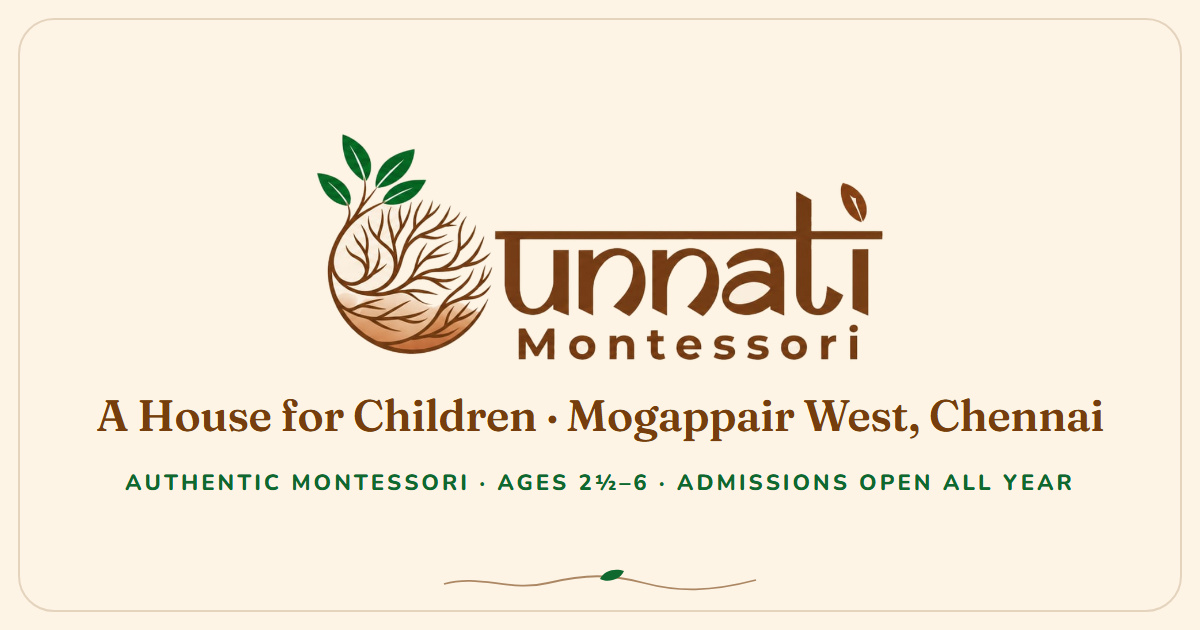
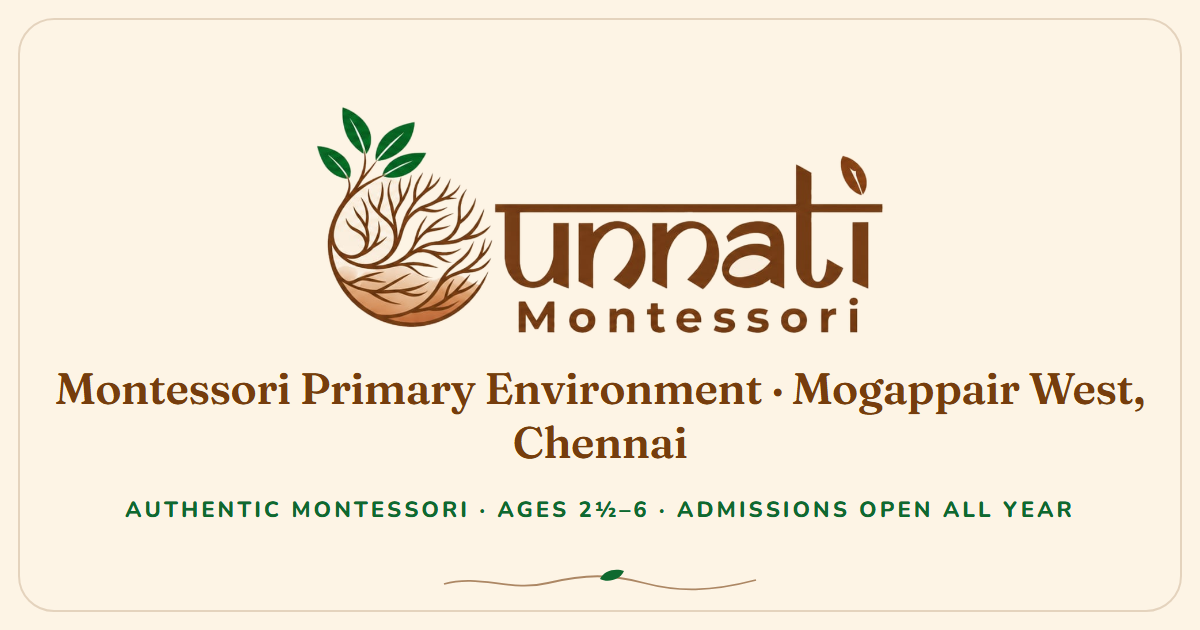
Round 2, phase 2: one number, Plot No. 5 address, firstPlaneTitle, no tagline

Changed region(s): [[0.0308, 0.181, 0.9558, 0.8444]]

diff --git a/src/config/site.ts b/src/config/site.ts
@@ -3,12 +3,12 @@
 
 export const site = {
   name: 'Unnati Montessori',
-  tagline: 'A House for Children',
   status: 'opening-shortly' as 'opening-shortly' | 'open',
   contactPerson: 'Manisha Aashish',
-  school: { display: '+91 75500 22403', tel: '+917550022403', wa: '917550022403' }, // admissions, day care, teacher training, hiring
-  consultancy: { display: '+91 90035 84303', tel: '+919003584303', wa: '919003584303' },
+  // The one number for everything: admissions, day care, teacher training, hiring and consultancy.
+  school: { display: '+91 75500 22403', tel: '+917550022403', wa: '917550022403' },
   address: {
+    plot: 'Plot No. 5',
     street: 'Chanakyan Cross Road, Annamalai Avenue',
     area: 'Mogappair West',
     city: 'Chennai',
@@ -16,7 +16,9 @@ export const site = {
     country: 'IN',
   },
   mapsUrl:
-    'https://www.google.com/maps/search/?api=1&query=Chanakyan+Cross+Road%2C+Annamalai+Avenue%2C+Mogappair+West%2C+Chennai',
+    'https://www.google.com/maps/search/?api=1&query=Plot+No.+5%2C+Chanakyan+Cross+Road%2C+Annamalai+Avenue%2C+Mogappair+West%2C+Chennai',
+  // Rename the first-plane section here; this is the only place the title is typed.
+  firstPlaneTitle: 'The First Plane of Development · Birth to 6',
   primary: { ages: '2½–6' },
   dayCare: {
     name: 'Extended Day Care',
@@ -37,7 +39,11 @@ export type Phone = typeof site.school;
 
 export const statusLabel = site.status === 'open' ? 'Now open' : 'Opening shortly';
 
-export const fullAddress = `${site.address.street}, ${site.address.area}, ${site.address.city}`;
+/** "Plot No. 5, Chanakyan Cross Road, Annamalai Avenue, Mogappair West, Chennai" */
+export function formatAddress(): string {
+  const a = site.address;
+  return `${a.plot}, ${a.street}, ${a.area}, ${a.city}`;
+}
 
 export const siteUrl = (import.meta.env.SITE_URL || 'https://unnati-montessori.netlify.app').replace(/\/$/, '');
 

diff --git a/src/content/faq.ts b/src/content/faq.ts
@@ -1,6 +1,6 @@
 // FAQ and consultancy copy (brief 6.9, 6.13, 6.14) plus the Day Care FAQ.
 // Answers are HTML strings so they can carry links; facts are interpolated from site.ts.
-import { site, fullAddress, telHref, wa, waText } from '../config/site';
+import { site, formatAddress, telHref, wa, waText } from '../config/site';
 
 export type QA = { q: string; a: string };
 
@@ -13,7 +13,7 @@ export const parentFaq: QA[] = [
   { q: 'Who will guide my child?', a: 'Our founder, Manisha Aashish, is an AMI-trained Montessori educator with over 10 years of experience, and we are building our team with AMI/IMTC Primary-trained educators.' },
   { q: 'How is Montessori different from a regular preschool?', a: 'Children choose purposeful work with hands-on materials, learn at their own pace and grow independent. <a href="/approach#compare">See the differences →</a>' },
   { q: 'What are the fees and timings?', a: `Call or WhatsApp us on ${schoolPhone} and we'll share the details for your child's programme.` },
-  { q: 'Where are you?', a: `${fullAddress} — near Casagrand Millenia. <a href="${site.mapsUrl}" target="_blank" rel="noopener">Get directions →</a>` },
+  { q: 'Where are you?', a: `${formatAddress()} — near Casagrand Millenia. <a href="${site.mapsUrl}" target="_blank" rel="noopener">Get directions →</a>` },
 ];
 
 export const dayCareFaq: QA[] = [
@@ -109,4 +109,4 @@ export const consultancyFaq: QA[] = [
   { q: 'Is Montessori consultancy only for new schools?', a: 'No. We also work with existing schools, educators, training institutes, and organisations and NGOs in education.' },
 ];
 
-export const consultancyWa = wa(site.consultancy, waText.consultancy);
+export const consultancyWa = wa(site.school, waText.consultancy);

diff --git a/src/scripts/route.ts b/src/scripts/route.ts
@@ -4,11 +4,9 @@ import { site, telHref, wa, waText } from '../config/site';
 
 export const path = () => location.pathname.replace(/\/$/, '') || '/';
 
-/** The consultancy page uses the consultancy number; every other page uses the school number. */
+/** One number everywhere; on /consultancy the WhatsApp message asks about consultancy. */
 export function contactFor(p = path()) {
-  const consult = p === '/consultancy';
-  const number = consult ? site.consultancy : site.school;
-  return { tel: telHref(number), wa: wa(number, consult ? waText.consultancy : waText.general) };
+  return { tel: telHref(site.school), wa: wa(site.school, p === '/consultancy' ? waText.consultancy : waText.general) };
 }
 
 /** Update every [data-contact="tel" | "wa"] link inside root. */

diff --git a/src/content/copy.ts b/src/content/copy.ts
@@ -26,7 +26,7 @@ export const founderExcerpt =
 export const journey = [
   { title: 'Unnati – After School for Children', text: 'Where it began: after-school time with children, guided by Montessori values.' },
   { title: 'Unnati – Homeschooling', text: 'Supporting families who chose to learn at home, reaching many more children.' },
-  { title: 'Unnati Montessori — A House for Children', text: 'The dream of our own school, taking shape in Mogappair West.' },
+  { title: 'Unnati Montessori', text: 'The dream of our own school, taking shape in Mogappair West.' },
 ];
 
 export type Programme = {

diff --git a/src/config/ankur-tips.ts b/src/config/ankur-tips.ts
@@ -42,7 +42,7 @@ export const tips: Record<string, Tip> = {
   },
   '/consultancy': {
     text: "Building your own Montessori school? Let's talk.",
-    actions: [whatsapp('WhatsApp us', site.consultancy, waText.consultancy), call(site.consultancy)],
+    actions: [whatsapp('WhatsApp us', site.school, waText.consultancy), call(site.school)],
   },
   '/contact': {
     text: 'We\'re near Casagrand Millenia. Tap Get directions for the way.',
